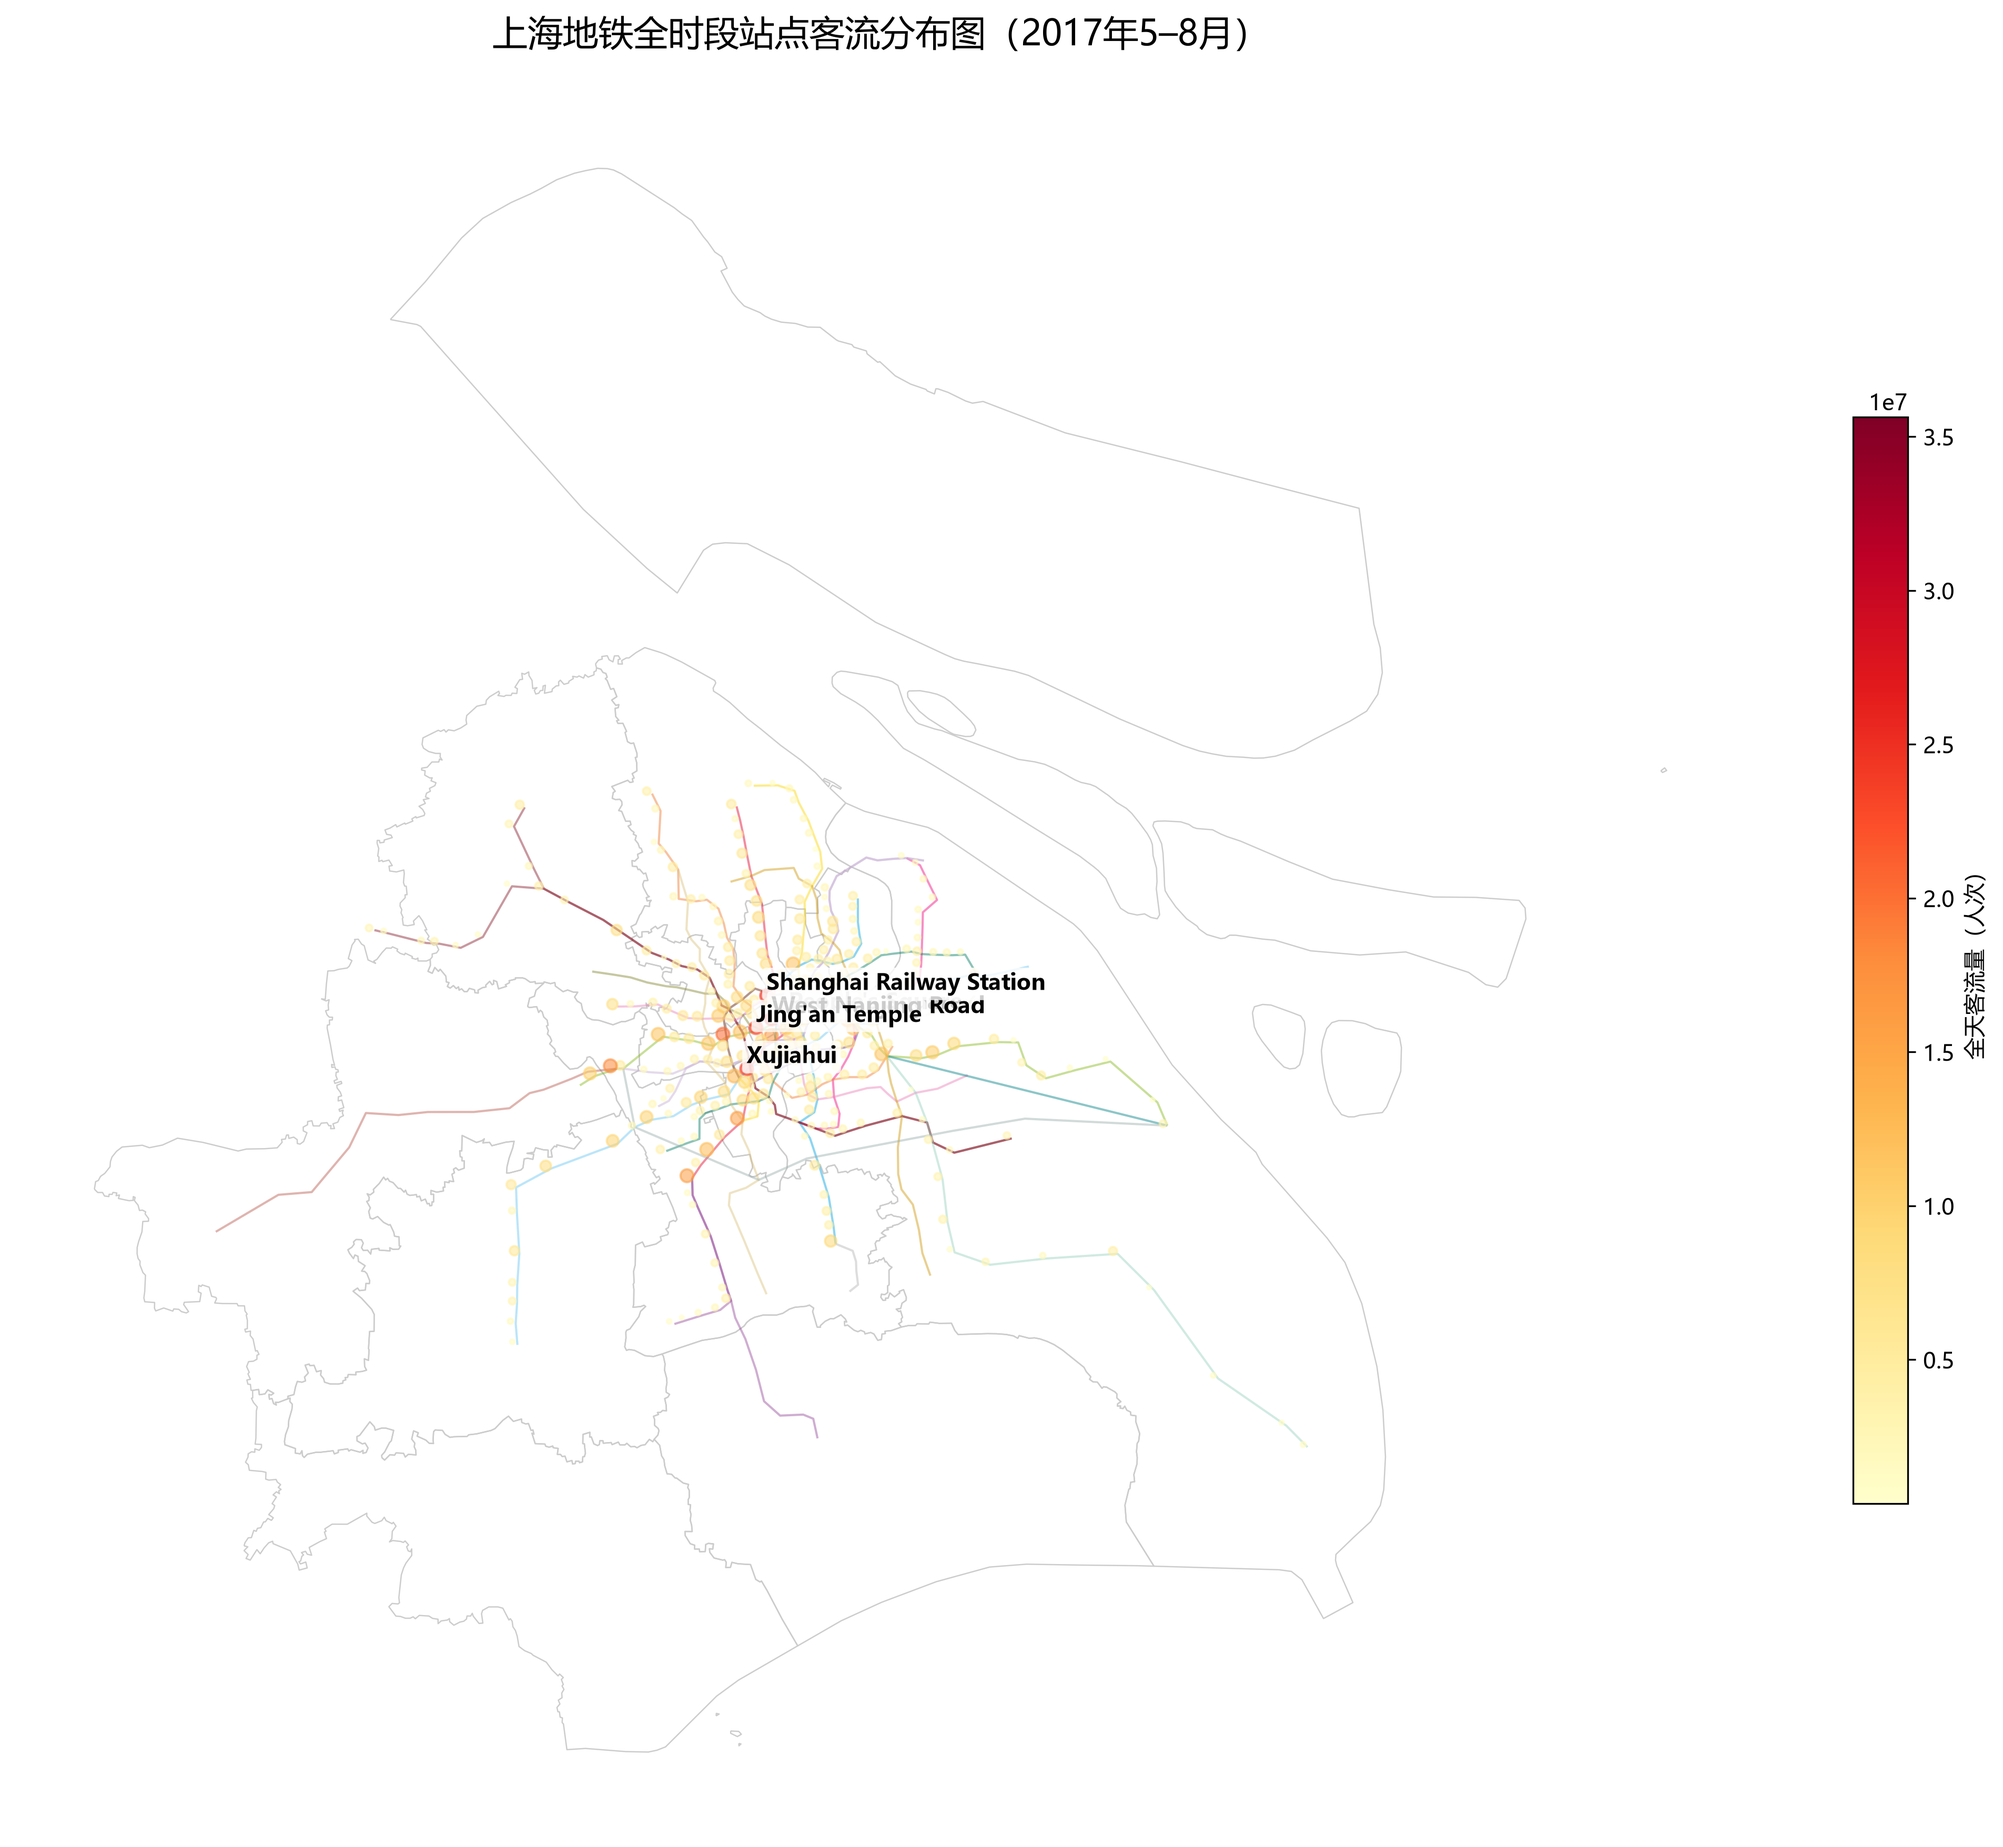
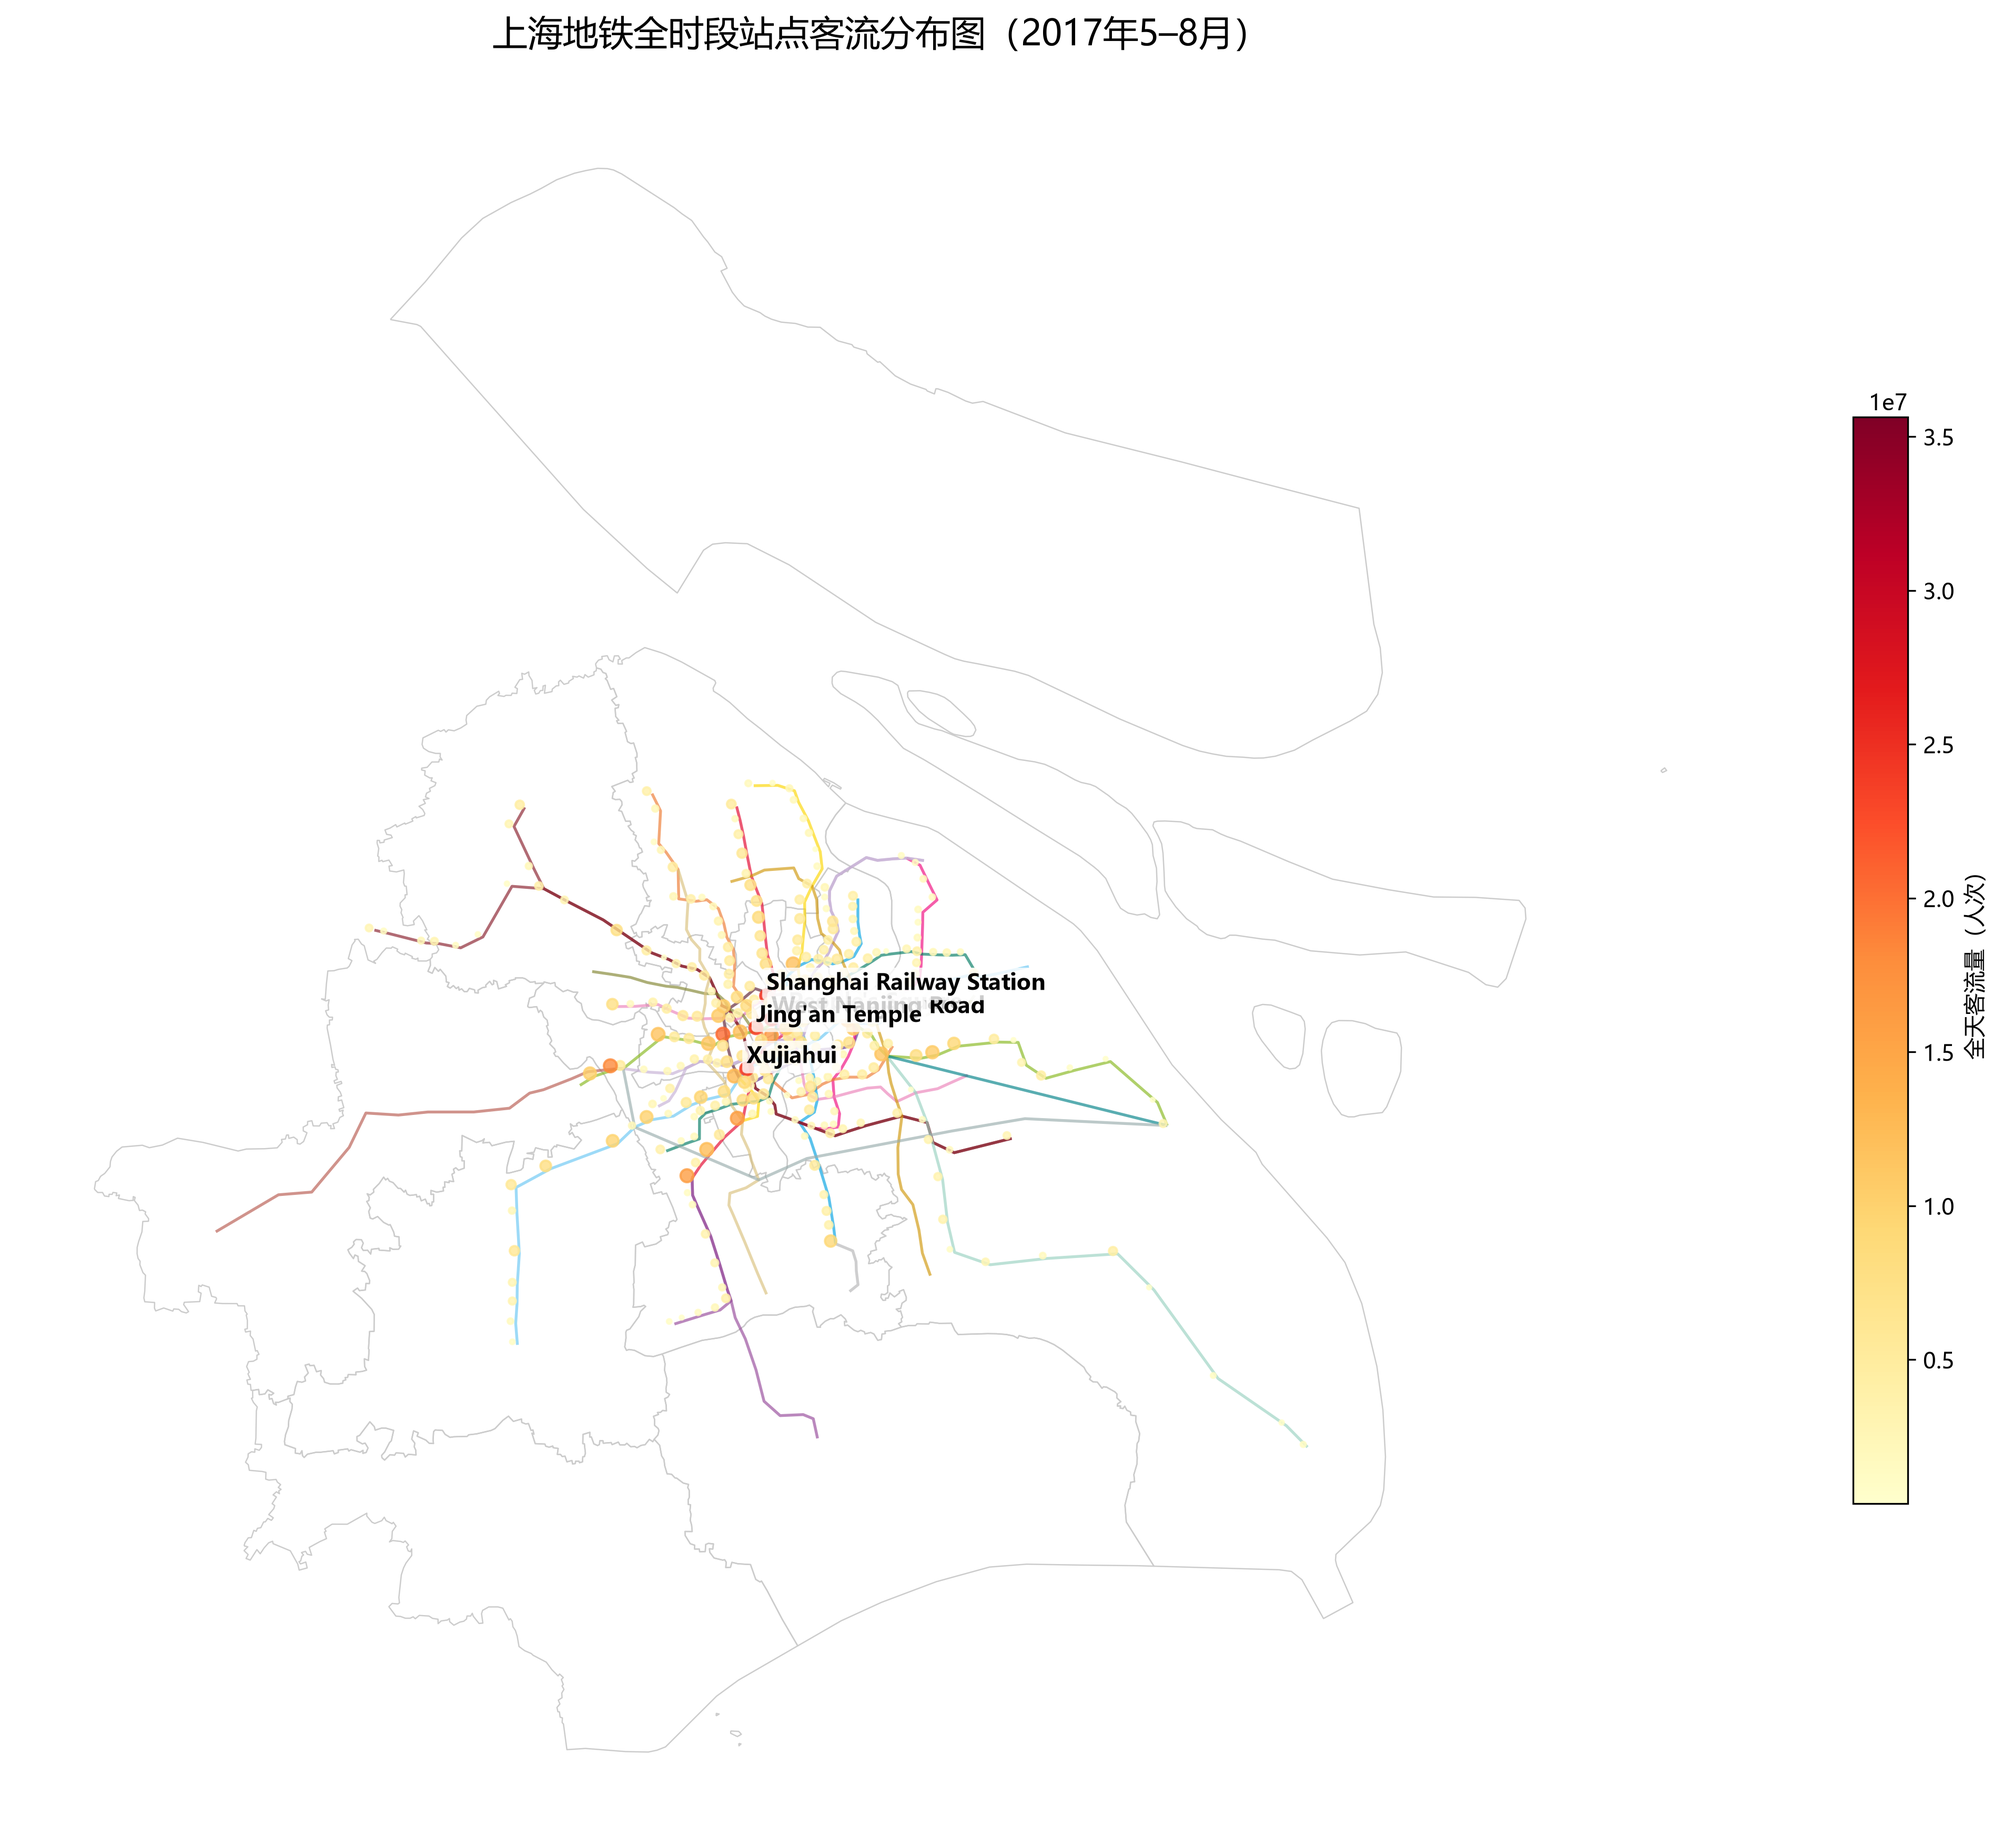
分工3: 提高站点颜色饱和度和地铁线路可见度

Changed region(s): [[0.3125, 0.5276, 0.5, 0.6518], [0.375, 0.4655, 0.4375, 0.5276], [0.2812, 0.5587, 0.3125, 0.5897]]

diff --git a/code/分工3/06_工作日周末差异.py b/code/分工3/06_工作日周末差异.py
@@ -49,13 +49,13 @@ vmax_abs = np.percentile(station_geo["flow_diff"].abs(), 95)
 fig, ax = plt.subplots(figsize=(14, 12), dpi=300)
 ax.set_facecolor("white")
 districts.boundary.plot(ax=ax, color="#cccccc", linewidth=0.6, zorder=1)
-# 地铁线路
+# 地铁线路（提高可见度）
 for _, line in metro_lines.iterrows():
     line_color = line["color"] if line["color"] else "#999999"
-    gpd.GeoSeries([line.geometry]).plot(ax=ax, color=line_color, linewidth=0.9, alpha=0.4, zorder=2)
+    gpd.GeoSeries([line.geometry]).plot(ax=ax, color=line_color, linewidth=1.3, alpha=0.7, zorder=2)
 station_geo.plot(
     ax=ax, column="flow_diff", cmap=CMAP_DIFF,
-    markersize=markersize, alpha=0.65,
+    markersize=markersize, alpha=0.85,
     vmin=-vmax_abs, vmax=vmax_abs,
     legend=True, legend_kwds={"shrink": 0.6, "label": "客流差值（工作日 − 周末，人次/日）"},
     zorder=3

diff --git a/code/分工3/04_全时段客流热力图.py b/code/分工3/04_全时段客流热力图.py
@@ -49,14 +49,14 @@ ax.set_facecolor("white")
 # 绘制行政区边界（简洁底图）
 districts.boundary.plot(ax=ax, color="#cccccc", linewidth=0.6, zorder=1)
 
-# 绘制地铁线路（官方颜色，细线，半透明）
+# 绘制地铁线路（官方颜色，中等线宽，较高可见度）
 for _, line in metro_lines.iterrows():
     line_color = line["color"] if line["color"] else "#999999"
-    gpd.GeoSeries([line.geometry]).plot(ax=ax, color=line_color, linewidth=1.0, alpha=0.45, zorder=2)
+    gpd.GeoSeries([line.geometry]).plot(ax=ax, color=line_color, linewidth=1.3, alpha=0.65, zorder=2)
 
 station_geo.plot(
     ax=ax, column="全天总客流", cmap=CMAP_FLOW,
-    markersize=markersize, alpha=0.55,
+    markersize=markersize, alpha=0.8,
     legend=True, legend_kwds={"shrink": 0.6, "label": "全天客流量（人次）"},
     zorder=3
 )

diff --git a/code/分工3/05_分时段对比图.py b/code/分工3/05_分时段对比图.py
@@ -57,11 +57,11 @@ for i, (col, title) in enumerate(periods):
     # 地铁线路
     for _, line in metro_lines.iterrows():
         line_color = line["color"] if line["color"] else "#999999"
-        gpd.GeoSeries([line.geometry]).plot(ax=ax, color=line_color, linewidth=0.8, alpha=0.4, zorder=2)
+        gpd.GeoSeries([line.geometry]).plot(ax=ax, color=line_color, linewidth=1.1, alpha=0.6, zorder=2)
     vals = station_geo[col].values
     size_clipped = np.clip(vals, None, np.percentile(vals, 95))
     ms = 2 + (size_clipped / np.percentile(vals, 95)) * 25
-    station_geo.plot(ax=ax, column=col, cmap=CMAP_FLOW, markersize=ms, alpha=0.55, vmin=0, vmax=vmax, zorder=3)
+    station_geo.plot(ax=ax, column=col, cmap=CMAP_FLOW, markersize=ms, alpha=0.8, vmin=0, vmax=vmax, zorder=3)
     ax.set_title(title, fontsize=14)
     ax.set_axis_off()
 

diff --git a/code/分工3/07b_OD可视化优化版.py b/code/分工3/07b_OD可视化优化版.py
@@ -107,7 +107,7 @@ districts.boundary.plot(ax=ax, color="#cccccc", linewidth=0.6, zorder=1)
 # 地铁线路
 for _, line in metro_lines.iterrows():
     line_color = line["color"] if line["color"] else "#999999"
-    gpd.GeoSeries([line.geometry]).plot(ax=ax, color=line_color, linewidth=0.9, alpha=0.35, zorder=2)
+    gpd.GeoSeries([line.geometry]).plot(ax=ax, color=line_color, linewidth=1.2, alpha=0.55, zorder=2)
 
 # 线宽分位数映射
 flow_vals = top15["Flow"].values
